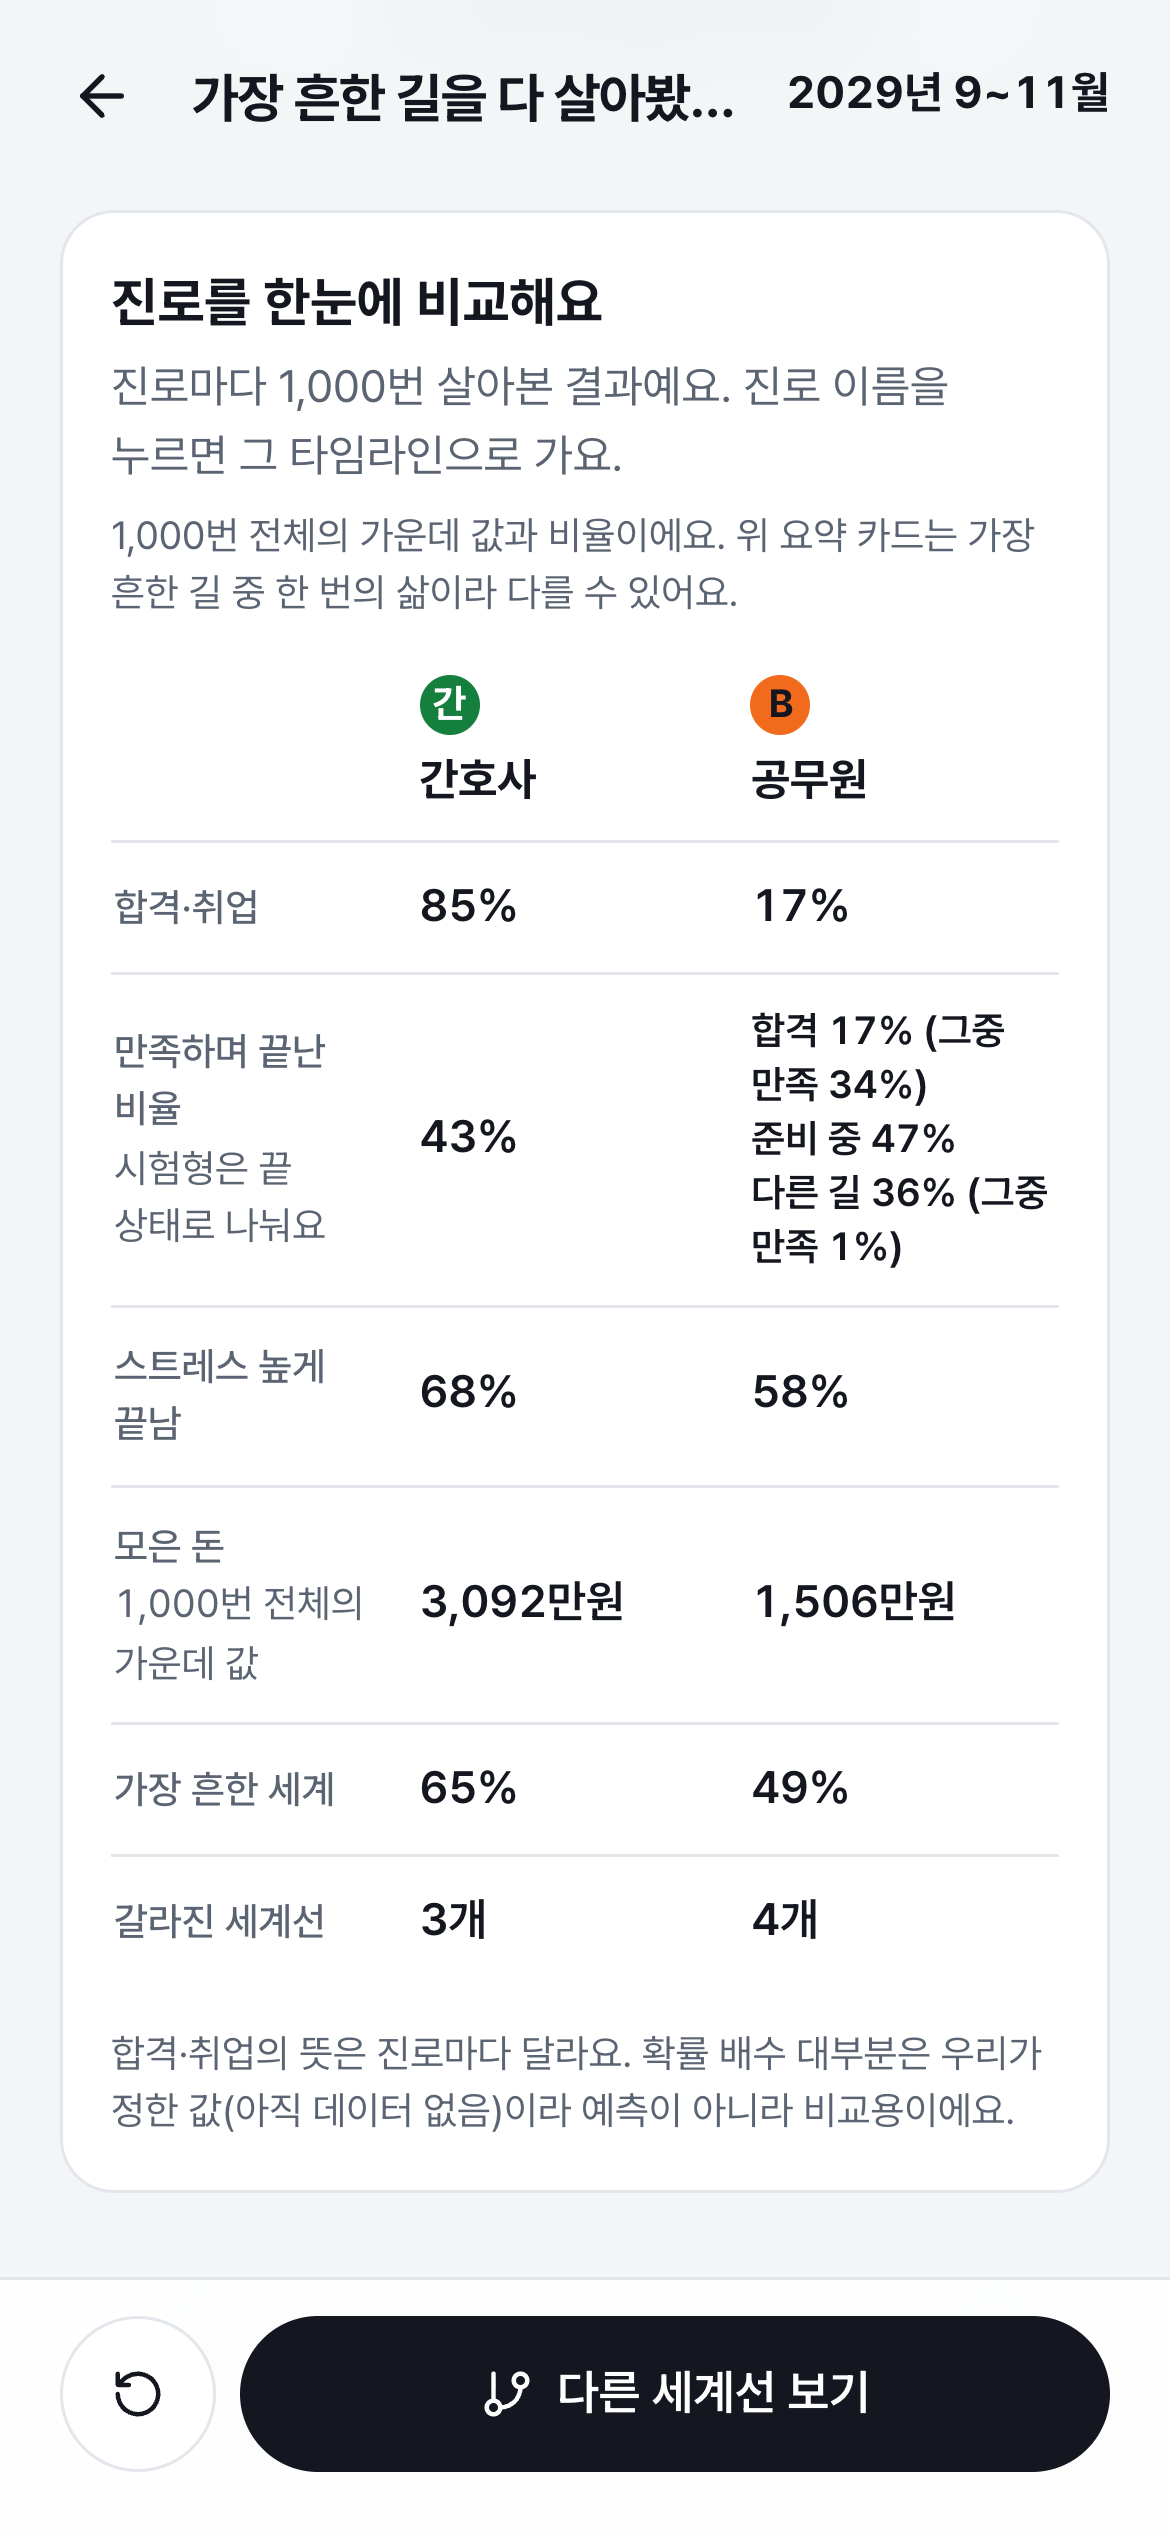
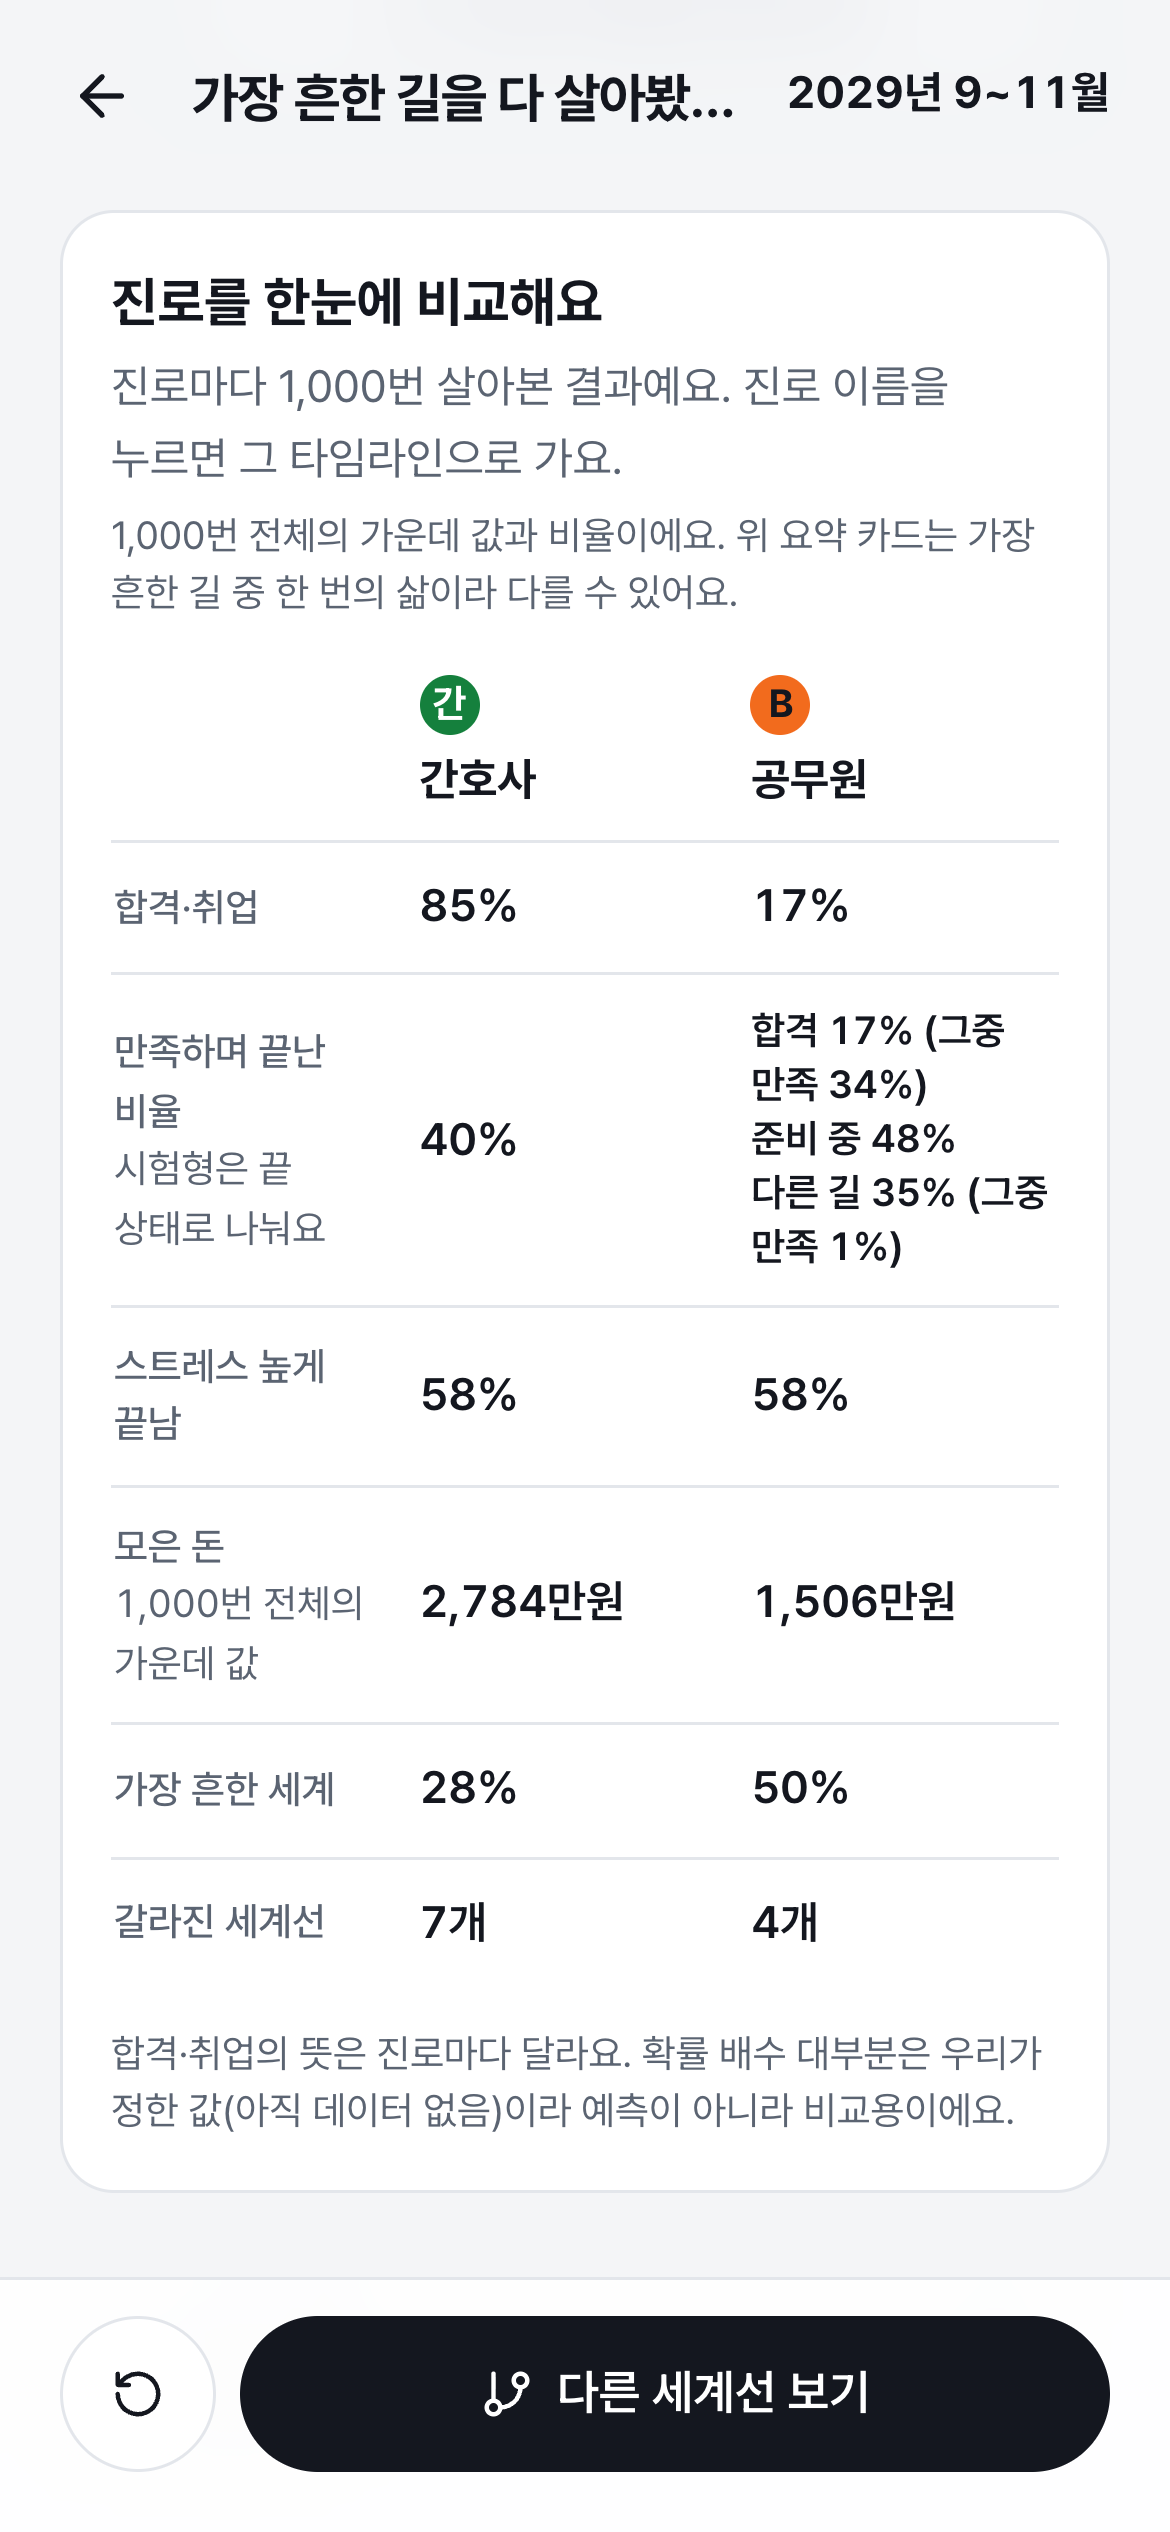
발표 캡처 다시 찍기(06~11, 24~26, 31, 32): 신규 1년 보정·표시 수정 뒤, 판단·서술 캐시 새로 받음(실패 0), 다시 찍기 AI 호출 0번. 백업 영상 demo.webm은 git 제외

diff --git a/docs/screens/deck/README.md b/docs/screens/deck/README.md
@@ -4,6 +4,8 @@
 - 파일마다 `번호_이름.png`(첫 화면)와 `번호_이름_crop.png`(핵심 부분) 두 장.
 - 인물은 예시 인물(가상)만: 김민준(컴퓨터모바일융합과 2학년, 웹 백엔드 개발자 vs 9급), 이서연(간호학과 3학년, 간호사 vs 9급). 둘 다 36개월, 2026년 12월 시작.
 - 시뮬레이션은 AI 판단이 다 성공한 상태에서 찍음: 김민준 48칸 중 48칸 AI(처음 42 + 실패 6칸 다시 받기), 이서연 42칸 중 42칸 AI(한 번에).
+- **2026-11-08 다시 찍음(06~11, 24~26, 31, 32)**: '신규 1년' 갈림길 보정(c83495e)과 표시 버그 수정(43c405c) 뒤. 무료 키 한도가 풀린 뒤 배포본에서 판단(프롬프트 4판)·서술을 한 번씩 새로 받았다: 김민준 51칸 중 51칸 AI, 이서연 45칸 중 45칸 AI, 'AI 판단 실패'·'AI 문장 대신 기본 문장' 0개. AI 호출(usage_logs) 김민준 18번(판단 9·시뮬레이션 6·리포트 1·프리미엄 2), 이서연 19번(판단 8·시뮬레이션 8·리포트 1·프리미엄 2). 프리미엄 2번 중 1번은 저장 전에 찍기를 끝내 버린 헛호출. 다시 찍기·영상은 그 저장소 사본으로 해서 AI 호출 0번(usage_logs 0행).
+- 백업 시연 영상 `demo.webm`(390×844, 90초, 약 7MB): 김민준 → 이서연 순으로 결과 요약 → 갈림길 → 갈래 길 지도 → Top 3 → 비교표 → 리포트 → 체크인. 녹화 중 AI 호출 0번. 크기 때문에 git에는 안 넣는다(`.gitignore`).
 - 같은 사람은 같은 브라우저 저장소를 이어 써서 화면끼리 숫자가 이어진다(판단 캐시 재사용).
 - 로그인·결제·공유 링크 생성은 배포본에서 하지 않았다. 공유 링크 화면(30)만 로컬(메모리 저장, AI 키 없음)에서 김민준 저장소를 옮겨 찍었다.
 
@@ -16,12 +18,12 @@
 | 03 | 03_질문화면_상황질문 | 예시 입력 | 10/13, 상황 질문 3개(대화 흐름 위에 답이 쌓임) |
 | 04 | 04_검사결과 | 예시 입력 | 개방성 또래와 비슷 (4.0 / 3.6), 성실성 비슷 (3.5 / 3.7), 외향성 낮은 편 (2.5 / 3.3), 우호성 비슷 (3.5 / 3.8), 예민함 높은 편 (3.5 / 2.6). 분신 3개 중 1개 맞힘(찍기 0.8개), '자세히'는 닫힌 채 |
 | 05 | 05_진로고르기 | 김민준 | 추천 목록(첫 화면), '간호' 검색 → 간호사 예상 67% 맞음 |
-| 06 | 06_시뮬레이션_진행중 | 김민준 | 분신 판단 진행 막대 |
-| 07 | 07_시뮬레이션_요약카드 | 김민준 | 가장 흔한 길 한 번의 삶: 취업 2027년 3월, 만족도 67/100, 모은 돈 6,481만원, 연봉 4,134만원 |
-| 08 | 08_갈림길_펼침 | 김민준 | 2028년 6~8월 '다른 회사에서 연락' → 옮긴다, 보통 47% → 나 44%, '우리가 정한 값' 배지, 1,000번 중 398번 |
-| 09 | 09_갈래길지도 | 김민준 | 3년 안에 취업 88% (86~90%), 1,000번 가운데 2027년 9월, 만족 64% (61~67%), 모은 돈 3,685만원, 연봉 3,595만원 |
-| 10 | 10_바꿀수있는것_Top3 | 김민준 | 코딩 실력 한 단계 86% → 94%, 번아웃 → 잠시 쉼 53% → 67%, 긴 구직 → 작은 회사도 지원 37% → 49%(200번) |
-| 11 | 11_진로비교표_간호사vs9급 | 이서연 | 합격·취업 85% vs 17%, 간호사 만족 43%, 9급 합격 17%(그중 만족 34%)·준비 중 47%·다른 길 36%(그중 만족 1%), 모은 돈 3,092 vs 1,506만원 |
+| 06 | 06_시뮬레이션_진행중 | 이서연 | 분신 판단 진행 막대 (4/8), 실제로 새로 받는 중에 찍음 |
+| 07 | 07_시뮬레이션_요약카드 | 김민준 | 가장 흔한 길 한 번의 삶: 취업 2027년 6월, 끝날 때 300인 이상 회사 30개월차, 만족도 65/100, 모은 돈 8,224만원, 연봉 5,001만원 |
+| 08 | 08_갈림길_펼침 | 김민준 | 2027년 9~11월 '신규 1년, 그만둘지 고민된다'(4개월차) → 버티며 1년을 채운다, 보통 56% → 나 63%(AI 분신 판단), '통계에 맞춰 보정' 배지(KOSIS 근속·첫 직장 18.4개월), 1,000번 중 846번 |
+| 09 | 09_갈래길지도 | 김민준 | 3년 안에 취업 88% (86~90%), 1,000번 가운데 2027년 9월, 만족 50% (47~53%), 스트레스 높게 끝남 47%, 모은 돈 3,313만원, 연봉(일하는 경우) 3,595만원 |
+| 10 | 10_바꿀수있는것_Top3 | 김민준 | 코딩 실력 한 단계 86% → 94%(200번), 번아웃 → 잠시 쉼 49% → 63%, 이직 제안 → 이직함 72% → 86% |
+| 11 | 11_진로비교표_간호사vs9급 | 이서연 | 합격·취업 85% vs 17%, 간호사 만족 40%, 9급 합격 17%(그중 만족 34%)·준비 중 48%·다른 길 35%(그중 만족 1%), 스트레스 58% vs 58%, 모은 돈 2,784 vs 1,506만원, 세계선 7개 vs 4개 |
 | 12 | 12_무료리포트 | 김민준 | 리포트 위쪽, 진로 비교(종합 점수 66점 등) |
 | 12-2 | 없음 | - | 잠긴 '프리미엄 미리 보기'는 예시 인물에게 안 나온다(예시 인물은 늘 열림) |
 | 13 | 13_필요한것_목록 | 김민준 | 먼저 할 것 1~3: 직무 능력 8개(부분적, NCS 응용SW엔지니어링 20010202, 조회 2026-11-05), 경험·경력 기술서(부분적), 인턴·현장실습(없음) |
@@ -37,14 +39,14 @@
 | 23 | 23_9급_모의고사_약점과목 | 이서연 | 예시 점수 2회를 직접 넣음(가상): 약점 행정법총론 평균 53점, 영어 58점 |
 | 24 | 24_계획넣고_다시살아보기 | 김민준 | 3년 안에 취업 88% (86~90%) → 94% (92~95%) |
 | 25 | 25_이번주할일 | 김민준 | 언제·어디서·무엇을, 예시 1개 |
-| 26 | 26_WOOP | 김민준 | 장애물: 공무원 '계속할지 고민' 72%, 개발자 '국비 교육' 55% |
+| 26 | 26_WOOP | 김민준 | 장애물: 개발자 '신규 1년 고민' 85%, 공무원 '계속할지 고민' 72% |
 | 27 | 없음 → 27_참고_막히는길에서할일 | 김민준 | 플랜 B 진로 기능은 없음. 가장 가까운 '자주 막히는 길로 가고 있다면': 국비 교육 등록, 그 뒤 여러 갈래 8%·만족 21% + 할 일 3개 |
 | 28 | 28_도움받을곳_고용센터프로그램 | 김민준 | 고용센터 프로그램(수원고용센터 직무특강 등) |
 | 29 | 29_진행체크_해봤어요 | 김민준 | 이번 주 할 일의 '해 봤어요' 칸(따로 된 진행 체크 기능은 없음) |
 | 30 | 30_상담사공유_미리보기 | 김민준 | 들어가는 것/안 들어가는 것 목록(배포본, 링크 안 만듦) |
 | 30-2 | 30_공유링크_만든뒤_로컬, 30_공유링크_읽기전용_로컬 | 김민준(로컬) | 로컬: 링크 만든 뒤 패널, 읽기 전용 페이지. AI 키 없는 로컬이라 AI 문장은 목업 |
-| 31 | 31_공유PDF_첫쪽 | 김민준 | PDF 첫쪽(인쇄 화면을 A4 PDF로 저장 후 첫 장): 종합 66점 · 88% · 만족 64%, 격차 3·9·12, 계획 88% → 94% |
-| 32 | 32_체크인_질문, 32_체크인_전후바뀐것, 32_체크인_다시살아보기 | 김민준 | 시연용 체크인(예시 답): 나도 처음 답과 같게 3개 중 2개, 분신 3개 중 1개, 성실성 3.5 → 3.8, 다시 살아 보기 개발자 89% → 89%, 9급 41% → 41%(규칙 계산만, 차이 없음) |
+| 31 | 31_공유PDF_첫쪽 | 김민준 | 인쇄 화면(PDF로 저장되는 화면) 첫 부분: 종합 63점 · 88% · 만족 50% · 스트레스 47%, 격차 3·9·12, 계획 88% → 94% |
+| 32 | 32_체크인_질문, 32_체크인_전후바뀐것, 32_체크인_다시살아보기 | 김민준 | 시연용 체크인(예시 답): 나도 처음 답과 같게 3개 중 2개, 분신 3개 중 1개, 성실성 3.5 → 3.8·신경성 3.5 → 3.3, 다시 살아 보기 개발자 89% → 89%(만족 49%), 9급 41% → 41%(규칙 계산만, 차이 없음) |
 
 ## 주의
 
